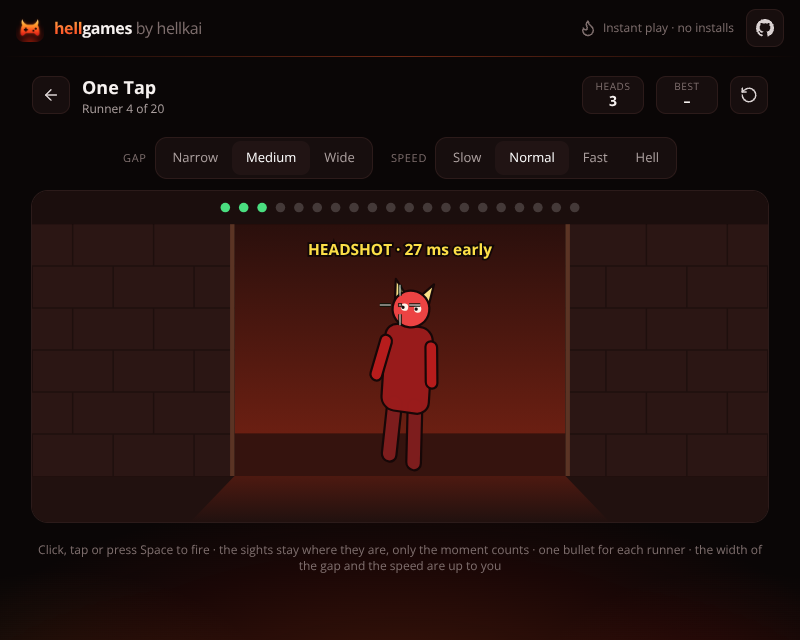
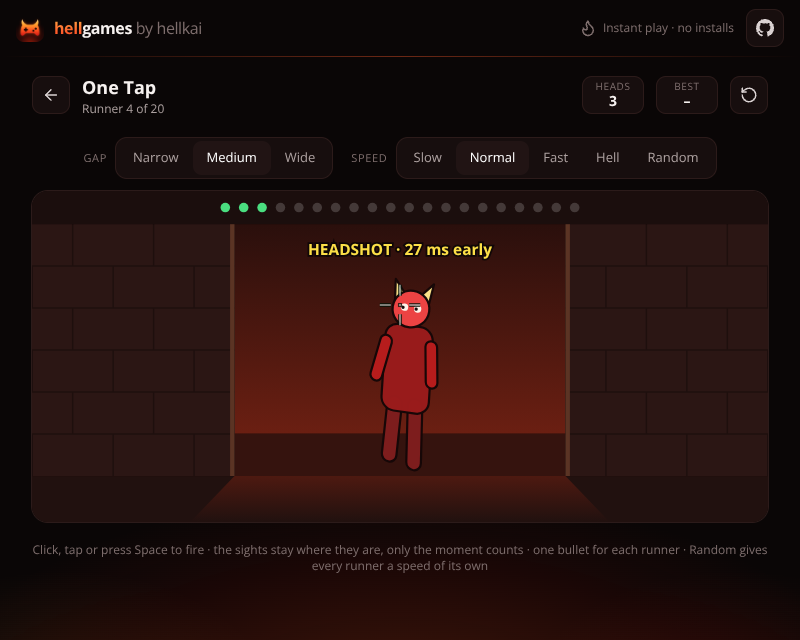
One Tap: a random speed
A fifth setting beside the four speeds: with Random every runner has a speed
of its own, somewhere from Slow to Hell, so there is no pace to settle into.

The twenty speeds of such a round are spread evenly over that range, one out
of each twentieth of it, and come in a random order. One round is therefore
as hard as another, which keeps the best scores comparable. Random has a best
score of its own for each width of the gap.

Shots are judged by the speed of the runner they are fired at. At the four
named speeds a round goes exactly as it did before.

On a small phone the five speed buttons get less padding, and smaller letters
under 360 pixels, so that they still stand in one row at 320.

Changed region(s): [[0.0312, 0.8438, 0.9688, 0.9062], [0.4062, 0.2188, 0.875, 0.2812], [0.1562, 0.2188, 0.375, 0.2812]]

diff --git a/js/games/onetap.js b/js/games/onetap.js
@@ -9,21 +9,38 @@ import { fitCanvas, loop, noScroll } from '../util.js';
 export const RUNNERS = 20;
 export const WIDTHS = { narrow: 6, medium: 9, wide: 12 };            // how wide the gap is
 export const SPEEDS = { slow: 7, normal: 11, fast: 16, hell: 21 };   // heads a second; somebody who runs in a shooter does a little over twenty
-const PAUSE = { slow: [1.1, 2.6], normal: [1, 2.3], fast: [0.9, 2], hell: [0.8, 1.8] }; // seconds of nothing before the next one
+export const RANDOM = [SPEEDS.slow, SPEEDS.hell];                    // with the speed set to 'random', every runner has one of its own between these two
+const PAUSE = { slow: [1.1, 2.6], normal: [1, 2.3], fast: [0.9, 2], hell: [0.8, 1.8], random: [0.9, 2.3] }; // seconds of nothing before the next one
 export const RELOAD = 0.45;   // seconds until the next bullet is in: a second click right after a shot does not waste it
 export const AHEAD = 0.9;     // how far a figure reaches in front of the middle of its head (the shoulder, a hand)
 export const BEHIND = 1.25;   // and how far behind it (the foot it pushes off with)
 
-// How much time a combination leaves, in milliseconds: `warning` from the first glimpse of a runner to the
-// moment a shot begins to kill, and `open` for how long the head then stays on the sights.
-export const timing = (width, speed) => ({ warning: (WIDTHS[width] / 2 + AHEAD - 0.5) / SPEEDS[speed] * 1000, open: 1000 / SPEEDS[speed] });
+// How much time a runner leaves, in milliseconds: `warning` from the first glimpse of it to the moment a shot
+// begins to kill, and `open` for how long the head then stays on the sights. `speed` is the name of a speed,
+// or a number of heads a second.
+export function timing(width, speed) {
+  const v = SPEEDS[speed] || speed;
+  return { warning: (WIDTHS[width] / 2 + AHEAD - 0.5) / v * 1000, open: 1000 / v };
+}
+
+// The speeds of a round in which every runner has one of its own: one out of each twentieth of the way from
+// the slowest to the fastest, in an order nobody can know. So one such round is as hard as another, and no
+// round is all slow runners by luck.
+function mixed(rnd) {
+  const [low, high] = RANDOM, speeds = Array.from({ length: RUNNERS }, (_, k) => low + (high - low) * (k + rnd()) / RUNNERS);
+  for (let k = RUNNERS - 1; k > 0; k--) { const j = Math.floor(rnd() * (k + 1)); [speeds[k], speeds[j]] = [speeds[j], speeds[k]]; }
+  return speeds;
+}
 
 export function createCrossing(width = 'medium', speed = 'normal', rnd = Math.random) {
-  const gap = WIDTHS[width], v = SPEEDS[speed];
+  const gap = WIDTHS[width];
   const from = -(gap / 2 + AHEAD), to = gap / 2 + BEHIND; // out of sight behind the one wall, and behind the other
-  const span = (to - from) / v;                           // seconds a runner takes from the one to the other
-  // `perfect`: so many seconds after a runner shows, the middle of its head is on the sights
-  const d = { gap, v, perfect: -from / v, n: 0, wait: 0, runner: null, loaded: true, heads: 0, shots: 0, results: [], events: [], over: false };
+  const speeds = speed === 'random' ? mixed(rnd) : Array(RUNNERS).fill(SPEEDS[speed]); // heads a second, runner by runner
+  // `v` and `perfect` are those of the runner in sight, or of the one who comes next. `perfect`: so many
+  // seconds after the runner shows, the middle of its head is on the sights.
+  const d = { gap, speeds, v: 0, perfect: 0, n: 0, wait: 0, runner: null, loaded: true, heads: 0, shots: 0, results: [], events: [], over: false };
+  let span = 0;                                           // seconds this runner takes from the one wall to the other
+  const pace = () => { d.v = speeds[d.n]; d.perfect = -from / d.v; span = (to - from) / d.v; };
   const pause = () => PAUSE[speed][0] + rnd() * (PAUSE[speed][1] - PAUSE[speed][0]);
   let fired = false, reload = 0; // the bullet for this runner has been fired; seconds until the next one is in
   let lastDir = 0, streak = 0;
@@ -37,7 +54,7 @@ export function createCrossing(width = 'medium', speed = 'normal', rnd = Math.ra
   function nextRunner() {
     d.runner = null; d.n++;
     if (d.n >= RUNNERS) { d.over = true; return; }
-    d.wait = pause(); fired = false; reload = RELOAD; d.loaded = false;
+    pace(); d.wait = pause(); fired = false; reload = RELOAD; d.loaded = false;
   }
   // How it went with a runner: 'head', 'early', 'late', or 'none' when nobody fired. `seen` says whether the
   // runner was in sight when the shot was fired; for the picture, `s` is where its head was.
@@ -53,7 +70,7 @@ export function createCrossing(width = 'medium', speed = 'normal', rnd = Math.ra
     while (!d.over && dt > 0) {
       const r = d.runner, left = r ? span - r.t : d.wait; // seconds until the next thing happens
       if (dt < left) {
-        if (r) { r.t += dt; r.s = from + v * r.t; } else d.wait -= dt;
+        if (r) { r.t += dt; r.s = from + d.v * r.t; } else d.wait -= dt;
         pass(dt); return;
       }
       pass(left); dt -= left;
@@ -77,22 +94,22 @@ export function createCrossing(width = 'medium', speed = 'normal', rnd = Math.ra
     const shots = d.results.filter((r) => r.seen && r.kind !== 'none');
     return shots.length ? Math.round(shots.reduce((sum, r) => sum + r.ms, 0) / shots.length) : null;
   };
-  d.wait = pause();
+  pace(); d.wait = pause();
   return d;
 }
 
 // ---------------------------------------------------------------- the game on screen
 const wall = () => performance.now() / 1000;
-const WIDTH_NAMES = { narrow: 'Narrow', medium: 'Medium', wide: 'Wide' }, SPEED_NAMES = { slow: 'Slow', normal: 'Normal', fast: 'Fast', hell: 'Hell' };
+const WIDTH_NAMES = { narrow: 'Narrow', medium: 'Medium', wide: 'Wide' }, SPEED_NAMES = { slow: 'Slow', normal: 'Normal', fast: 'Fast', hell: 'Hell', random: 'Random' };
 // The picture is nine heads high; how many heads wide it is follows from its shape (twenty on a desktop, fourteen on a phone).
 const TALL = 9, LINTEL = 0.9, EYES = 3.1, FEET = 7.4, SILL = 7.75; // from the top: under the lintel, the middle of a head, the feet, where the walls stand
 
 export default {
   id: 'onetap', name: 'One Tap', icon: 'door-open', color: '#a3e635', tag: 'Skill', since: '1.1',
   desc: 'For shooter players: your sights hold a gap at head height, and somebody runs across. One bullet for each.',
-  help: 'Click, tap or press Space to fire · the sights stay where they are, only the moment counts · one bullet for each runner · the width of the gap and the speed are up to you',
+  help: 'Click, tap or press Space to fire · the sights stay where they are, only the moment counts · one bullet for each runner · Random gives every runner a speed of its own',
   scoreLabel: 'Heads',
-  // every width with every speed, each with a best score of its own
+  // every width with every speed (and with Random, a speed for every runner), each with a best score of its own
   variants: Object.fromEntries(Object.entries(WIDTH_NAMES).flatMap(([w, wide]) => Object.entries(SPEED_NAMES).map(([s, fast]) => [`${w}-${s}`, `${wide} · ${fast}`]))),
   defaultVariant: () => 'medium-normal',
   create(stage, api) {
@@ -107,7 +124,7 @@ export default {
     function reset() {
       clearTimeout(endTimer); api.hideOverlay();
       [width, speed] = String(api.variant()).split('-');
-      if (!WIDTHS[width] || !SPEEDS[speed]) [width, speed] = ['medium', 'normal'];
+      if (!WIDTH_NAMES[width] || !SPEED_NAMES[speed]) [width, speed] = ['medium', 'normal'];
       for (const b of stage.querySelectorAll('#ot-width button')) b.classList.toggle('on', b.dataset.v === width);
       for (const b of stage.querySelectorAll('#ot-speed button')) b.classList.toggle('on', b.dataset.v === speed);
       game = createCrossing(width, speed); state = 'ready'; pops = []; ghosts = []; fallen = [];

diff --git a/styles.css b/styles.css
@@ -704,7 +704,11 @@ a.btn-icon:hover { color: var(--accent2); border-color: color-mix(in srgb, var(-
 
 /* One Tap */
 .ot-top { display:flex; flex-wrap:wrap; align-items:center; justify-content:center; gap:8px 18px; margin-bottom:12px; }
-.ot-set { display:flex; align-items:center; gap:8px; }
+.ot-set { display:flex; align-items:center; gap:8px; max-width:100%; }
+.ot-set .seg { flex-wrap:wrap; justify-content:center; min-width:0; }
 .ot-set > span { font-size:11px; text-transform:uppercase; letter-spacing:.06em; color:var(--dim); }
 .onetap { display:block; width:min(100%, 820px, calc((100vh - 260px) * 2.2222)); width:min(100%, 820px, calc((100dvh - 260px) * 2.2222)); min-width:min(100%, 280px); aspect-ratio:20 / 9; border-radius:16px; box-shadow:0 0 0 1px var(--border); touch-action:none; cursor:none; user-select:none; -webkit-user-select:none; }
 @media (max-width:560px) { .onetap { aspect-ratio:14 / 9; } .ot-set .seg button { padding:7px 11px; } }
+/* five speeds side by side on a small phone */
+@media (max-width:380px) { .ot-set .seg button { padding:7px 8px; } }
+@media (max-width:359px) { .ot-set .seg button { padding:7px; font-size:12px; } }

diff --git a/README.md b/README.md
@@ -35,7 +35,7 @@ Each of the three plays a tune that is composed anew for every round, on four le
 | **Reaction Test** | Click the moment the screen turns green. The score is the average of five tries. | Click, tap or `Space` |
 | **Whack-a-Mole** | Little devils pop out of lava pits. Bop as many as you can in 30 seconds. | Click, tap or the number keys |
 | **Hold the Angle** | For players of tactical shooters: somebody leans out of cover, and whoever fires first wins. A shot in the head ends it at once. The score is the average time of twelve duels. | Mouse and click, or tap |
-| **One Tap** | Also for shooter players: the sights hold a gap at head height and do not move. Somebody runs across, and one click at the right moment is a headshot. One bullet for each runner; the gap can be narrow, medium or wide, and there are four speeds. | Click, tap or `Space` |
+| **One Tap** | Also for shooter players: the sights hold a gap at head height and do not move. Somebody runs across, and one click at the right moment is a headshot. One bullet for each runner; the gap can be narrow, medium or wide, and there are four speeds, or Random, which gives every runner a speed of its own. | Click, tap or `Space` |
 | **Last Hit** | For players of MOBAs: strike the blow that finishes a creep, with a sword or with a bow. Too early is wasted, too late and the creep is lost. | Click or tap a creep |
 | **Stroop Test** | The word says GREEN, the ink is red. Pick the colour of the ink, not the one the word names. 30 seconds, in English or Russian. | Click, tap or `1` to `4` |
 | **Odd One Out** | One tile is not like the others: a shade off, or another letter. Every find makes the field bigger and the difference smaller. | Mouse or finger |

diff --git a/CHANGELOG.md b/CHANGELOG.md
@@ -49,8 +49,9 @@ Skill
 - **Hold the Angle**, for players of tactical shooters: somebody leans out of cover, and whoever fires first
   wins the duel.
 - **One Tap**, for the same players: the sights hold a gap at head height and do not move, somebody runs
-  across, and one click at the right moment is a headshot. The gap can be narrow, medium or wide, the
-  runners have four speeds, and every combination keeps a best score of its own.
+  across, and one click at the right moment is a headshot. The gap can be narrow, medium or wide, and the
+  runners have one of four speeds or, with Random, each a speed of its own. Every combination keeps a
+  best score of its own.
 - **Last Hit**, for players of MOBAs: strike the blow that finishes a creep, with a sword or with a bow.
 - **Stroop Test**: the word says one colour, the ink is another, and the ink is what counts.
 - **Odd One Out**: one tile of the field is not like the others.
